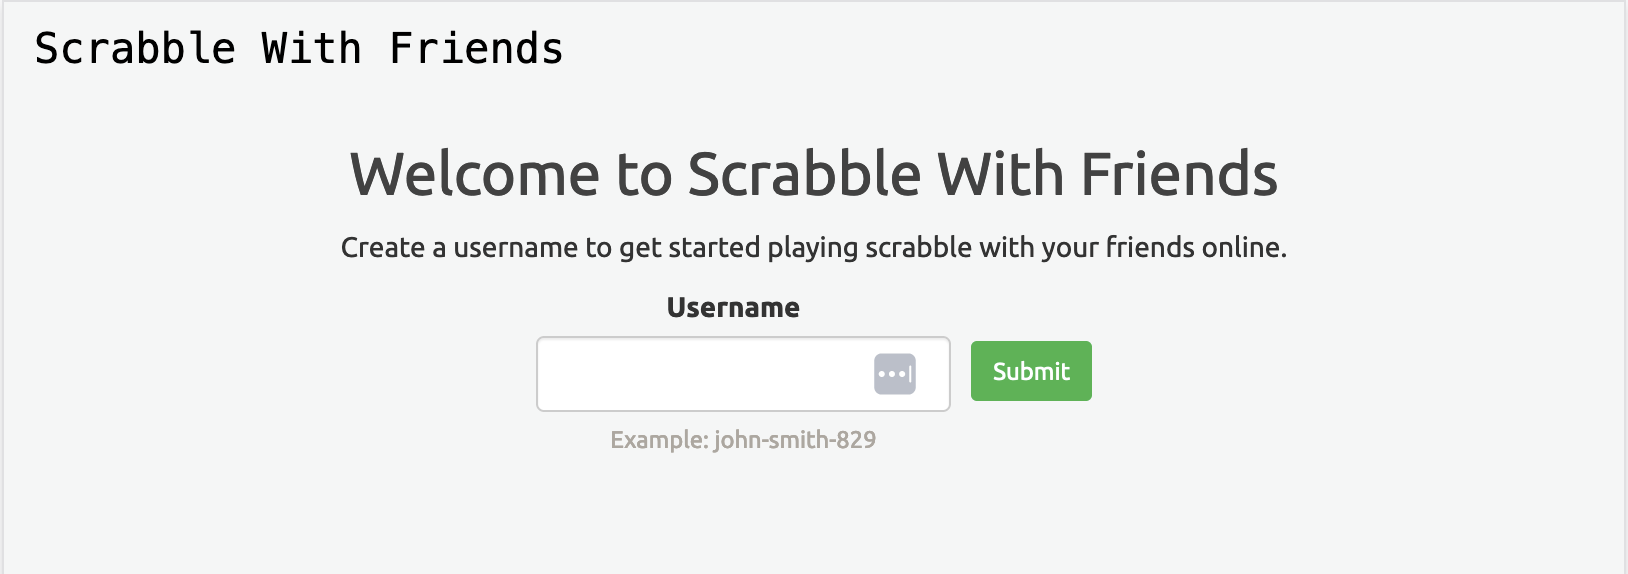
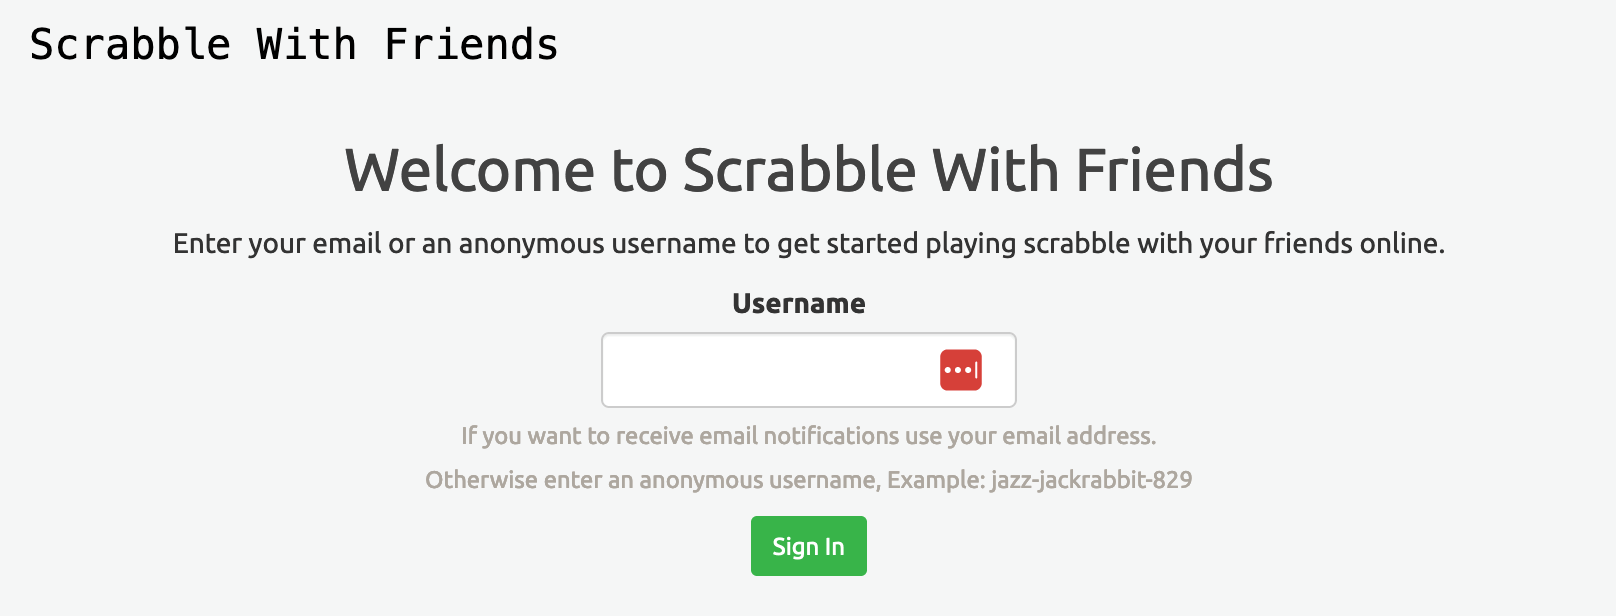
Add email notification capabilities

diff --git a/spec/request/games_controller_spec.rb b/spec/request/games_controller_spec.rb
@@ -19,12 +19,14 @@ RSpec.describe ScrabbleWithFriends::GamesController, type: :request do
     @game
   end
 
-  def create_player
-    @game.players.create!(username: SecureRandom.hex(6))
+  def create_player(username: nil)
+    @game.players.create!(
+      username: username || SecureRandom.hex(6),
+    )
   end
 
-  def create_turn
-    player = @game.players.first
+  def create_turn(player: nil)
+    player ||= @game.players.first
 
     @game.create_turn!(
       player: player,
@@ -154,6 +156,8 @@ RSpec.describe ScrabbleWithFriends::GamesController, type: :request do
 
       expect(@game.turns.size).to eq(0)
 
+      expect(ScrabbleWithFriends::ApplicationMailer).not_to receive(:its_your_turn).and_call_original
+
       post scrabble_with_friends.take_turn_game_path(@game), params: {
         game: {
           tiles_played: {
@@ -168,6 +172,48 @@ RSpec.describe ScrabbleWithFriends::GamesController, type: :request do
 
       expect(@game.turns.reload.size).to eq(1)
     end
+
+    it "sends email when username is email address" do
+      player_1 = @game.players.first
+      player_1.update_columns(tiles: ["F","O","O","S"])
+
+      player_2 = create_player(username: "foo@bar.com")
+
+      expect(@game.turns.size).to eq(0)
+
+      expect(ScrabbleWithFriends::ApplicationMailer).to receive(:its_your_turn).with(game_url: anything, email: player_2.username).and_call_original
+
+      post scrabble_with_friends.take_turn_game_path(@game), params: {
+        game: {
+          tiles_played: {
+            "0" => {letter: "F", cell: [7,7]},
+            "1" =>{letter: "O", cell: [7,8]},
+            "2" =>{letter: "O", cell: [7,9]},
+          },
+        }
+      }
+    end
+
+    it "sends email when game over" do
+      player_1 = @game.players.first
+      player_1.update_columns(tiles: ["F","O","O"])
+
+      player_2 = create_player(username: "foo@bar.com")
+
+      expect(@game.turns.size).to eq(0)
+
+      expect(ScrabbleWithFriends::ApplicationMailer).to receive(:game_over).with(game_url: anything, emails: [player_2.username], winning_player_username: player_1.username).and_call_original
+
+      post scrabble_with_friends.take_turn_game_path(@game), params: {
+        game: {
+          tiles_played: {
+            "0" => {letter: "F", cell: [7,7]},
+            "1" =>{letter: "O", cell: [7,8]},
+            "2" =>{letter: "O", cell: [7,9]},
+          },
+        }
+      }
+    end
   end
 
   context "undo_turn" do
@@ -178,10 +224,28 @@ RSpec.describe ScrabbleWithFriends::GamesController, type: :request do
     it "deletes the turn" do
       create_turn
       expect(@game.turns.size).to eq(1)
+
+      expect(ScrabbleWithFriends::ApplicationMailer).not_to receive(:its_your_turn).and_call_original
+
       post scrabble_with_friends.undo_turn_game_path(@game)
       expect(response.status).to eq(302)
       expect(response).to redirect_to(scrabble_with_friends.game_path(@game))
       expect(@game.turns.reload.size).to eq(0)
+    end
+
+    it "sends email if username is an email address" do
+      player_1 = @game.players.first
+      player_1.update_columns(username: "foo@bar.com")
+
+      player_2 = create_player
+
+      create_turn
+
+      expect(@game.turns.size).to eq(1)
+
+      expect(ScrabbleWithFriends::ApplicationMailer).to receive(:its_your_turn).with(game_url: anything, email: player_1.username).and_call_original
+
+      post scrabble_with_friends.undo_turn_game_path(@game)
     end
 
     it "removes the score from the player" do
@@ -271,10 +335,49 @@ RSpec.describe ScrabbleWithFriends::GamesController, type: :request do
 
     it "forfeits if current player" do
       expect(@game.players.first.forfeitted).to eq(false)
+
+      expect(ScrabbleWithFriends::ApplicationMailer).not_to receive(:its_your_turn).and_call_original
+
       post scrabble_with_friends.forfeit_game_path(@game)
       expect(response.status).to eq(302)
       expect(response).to redirect_to(scrabble_with_friends.game_path(@game))
+
       expect(@game.players.first.reload.forfeitted).to eq(true)
+    end
+
+    it "sends email when username is email address" do
+      player_2 = create_player
+
+      player_3 = create_player(username: "player3@foo.com")
+
+      create_turn
+
+      logout
+      sign_in(player_2.username)
+
+      expect(ScrabbleWithFriends::ApplicationMailer).to receive(:its_your_turn).with(game_url: anything, email: player_3.username).and_call_original
+
+      post scrabble_with_friends.forfeit_game_path(@game)
+      expect(response.status).to eq(302)
+      expect(response).to redirect_to(scrabble_with_friends.game_path(@game))
+    end
+
+    it "sends email when game over" do
+      player_1 = @game.players.first
+      player_1.update_columns(username: "foo@bar.com")
+
+      player_2 = create_player(username: "player2@foo.com")
+
+      create_turn(player: player_1)
+
+      logout
+      sign_in(player_2.username)
+
+      expect(ScrabbleWithFriends::ApplicationMailer).to receive(:game_over).with(game_url: anything, emails: [player_1.username], winning_player_username: player_1.username).and_call_original
+
+      post scrabble_with_friends.forfeit_game_path(@game)
+      expect(response.status).to eq(302)
+      expect(response).to redirect_to(scrabble_with_friends.game_path(@game))
     end
   end
 

diff --git a/app/controllers/scrabble_with_friends/games_controller.rb b/app/controllers/scrabble_with_friends/games_controller.rb
@@ -94,6 +94,19 @@ module ScrabbleWithFriends
 
       _user_current_player.update!(forfeitted: true, tiles: [])
 
+      if @game.game_over?
+        ScrabbleWithFriends::ApplicationMailer.game_over(
+          game_url: game_url(@game),
+          emails: (@game.players.select(&:has_email?).map(&:username) - [current_username]),
+          winning_player_username: @game.players.max_by(&:score).username,
+        ).deliver_later
+      elsif @game.current_player&.has_email? && @game.current_player.username != current_username
+        ScrabbleWithFriends::ApplicationMailer.its_your_turn(
+          game_url: game_url(@game),
+          email: @game.current_player.username,
+        ).deliver_later
+      end
+
       _broadcast_changes
 
       redirect_to(action: :show)
@@ -125,6 +138,13 @@ module ScrabbleWithFriends
         )
 
         last_turn.destroy!
+      end
+
+      if last_player&.has_email? && last_player.username != current_username
+        ScrabbleWithFriends::ApplicationMailer.its_your_turn(
+          game_url: game_url(@game),
+          email: last_player.username,
+        ).deliver_later
       end
 
       _broadcast_changes
@@ -163,6 +183,19 @@ module ScrabbleWithFriends
             tiles_played: _tiles_played,
             score: @words.sum{|h| h.fetch(:points) },
           )
+        end
+
+        if @game.game_over?
+          ScrabbleWithFriends::ApplicationMailer.game_over(
+            game_url: game_url(@game),
+            emails: (@game.players.select(&:has_email?).map(&:username) - [current_username]),
+            winning_player_username: @game.players.max_by(&:score).username,
+          ).deliver_later
+        elsif @game.current_player&.has_email? && @game.current_player.username != current_username
+          ScrabbleWithFriends::ApplicationMailer.its_your_turn(
+            game_url: game_url(@game),
+            email: @game.current_player.username,
+          ).deliver_later
         end
 
         _broadcast_changes

diff --git a/app/mailers/scrabble_with_friends/application_mailer.rb b/app/mailers/scrabble_with_friends/application_mailer.rb
@@ -1,0 +1,48 @@
+module ScrabbleWithFriends
+  class ApplicationMailer < ActionMailer::Base
+    layout 'mailer'
+
+    def its_your_turn(game_url:, email:)
+      subject = "Its your turn to play on your Scrabble with Friends game"
+
+      hostname = game_url.split("://").last.split("/").first
+
+      mail(to: email, subject: subject, from: "no-reply@#{hostname}") do |f|
+        f.html <<~STR
+          <h2>#{subject}</h2>
+
+          <a href="#{game_url}">#{game_url}</a>
+        STR
+
+        f.text <<~STR
+          #{subject}
+
+          #{game_url}
+        STR
+      end
+    end
+
+    def game_over(emails:, game_url:, winning_player_username:)
+      winning_player = game.players.max_by(&:score)
+
+      subject = "#{winning_player_username} has won your Scrabble with Friends game"
+
+      hostname = game_url.split("://").last.split("/").first
+
+      mail(to: emails, subject: subject, from: "no-reply@#{hostname}") do |f|
+        f.html <<~STR
+          <h2>#{subject}</h2>
+
+          <a href="#{game_url}">#{game_url}</a>
+        STR
+
+        f.text <<~STR
+          #{subject}
+
+          #{game_url}
+        STR
+      end
+    end
+
+  end
+end

diff --git a/spec/dummy/config/environments/test.rb b/spec/dummy/config/environments/test.rb
@@ -5,7 +5,7 @@
 
 Rails.application.configure do
   # Settings specified here will take precedence over those in config/application.rb.
-  
+
   config.cache_classes = false
 
   # Do not eager load code on boot. This avoids loading your whole application
@@ -25,7 +25,11 @@ Rails.application.configure do
   config.cache_store = :null_store
 
   # Raise exceptions instead of rendering exception templates.
-  config.action_dispatch.show_exceptions = false
+  if Rails::VERSION::STRING.to_f >= 7.1
+    config.action_dispatch.show_exceptions = :none
+  else
+    config.action_dispatch.show_exceptions = false
+  end
 
   # Disable request forgery protection in test environment.
   config.action_controller.allow_forgery_protection = false

diff --git a/app/models/scrabble_with_friends/game.rb b/app/models/scrabble_with_friends/game.rb
@@ -44,7 +44,11 @@ module ScrabbleWithFriends
     end
 
     def game_over?
-      active_players.none?
+      if players.size == 1
+        active_players.none?
+      else
+        active_players.size <= 1
+      end
     end
 
     def restart!

diff --git a/app/models/scrabble_with_friends/player.rb b/app/models/scrabble_with_friends/player.rb
@@ -13,5 +13,9 @@ module ScrabbleWithFriends
     def active?
       !forfeitted? && !tiles.empty?
     end
+
+    def has_email?
+      username.match?(/.*@.*\..*/)
+    end
   end
 end
